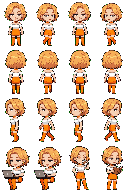
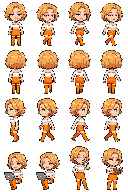
Revert "fix: mirror-based walk cycle - frame3=mirror(frame1) for consistent direction"
This reverts commit 9c7606bf78a735c043517b9ee670c12f4d8047c0.

diff --git a/public/assets/pixel-office/engine.js b/public/assets/pixel-office/engine.js
@@ -25,7 +25,7 @@
   var DIR_DOWN = 0, DIR_UP = 1, DIR_RIGHT = 2;
   var DIR_LEFT = 3; // virtual direction, uses RIGHT row + flip
   var ROW_ACTIVITY = 3;
-  var WALK_SEQUENCE = [0, 1, 0, 3];
+  var WALK_SEQUENCE = [1, 2, 3, 2, 1];
   var WORK_SEQUENCE = [0, 1];
   var STATE_FRAME = {
     idle: 0,
